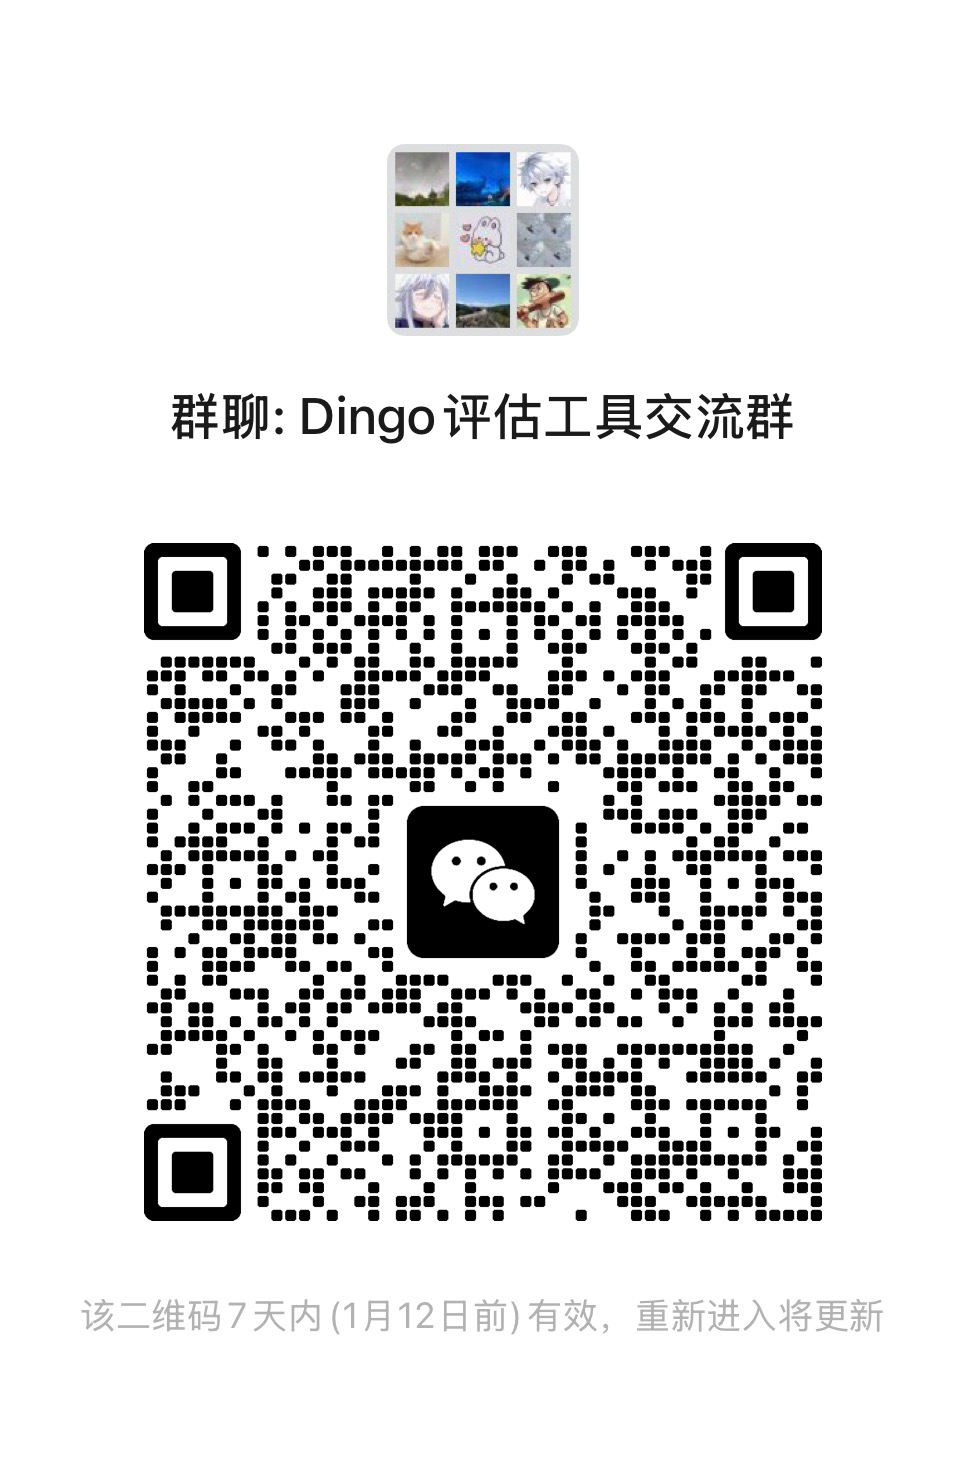
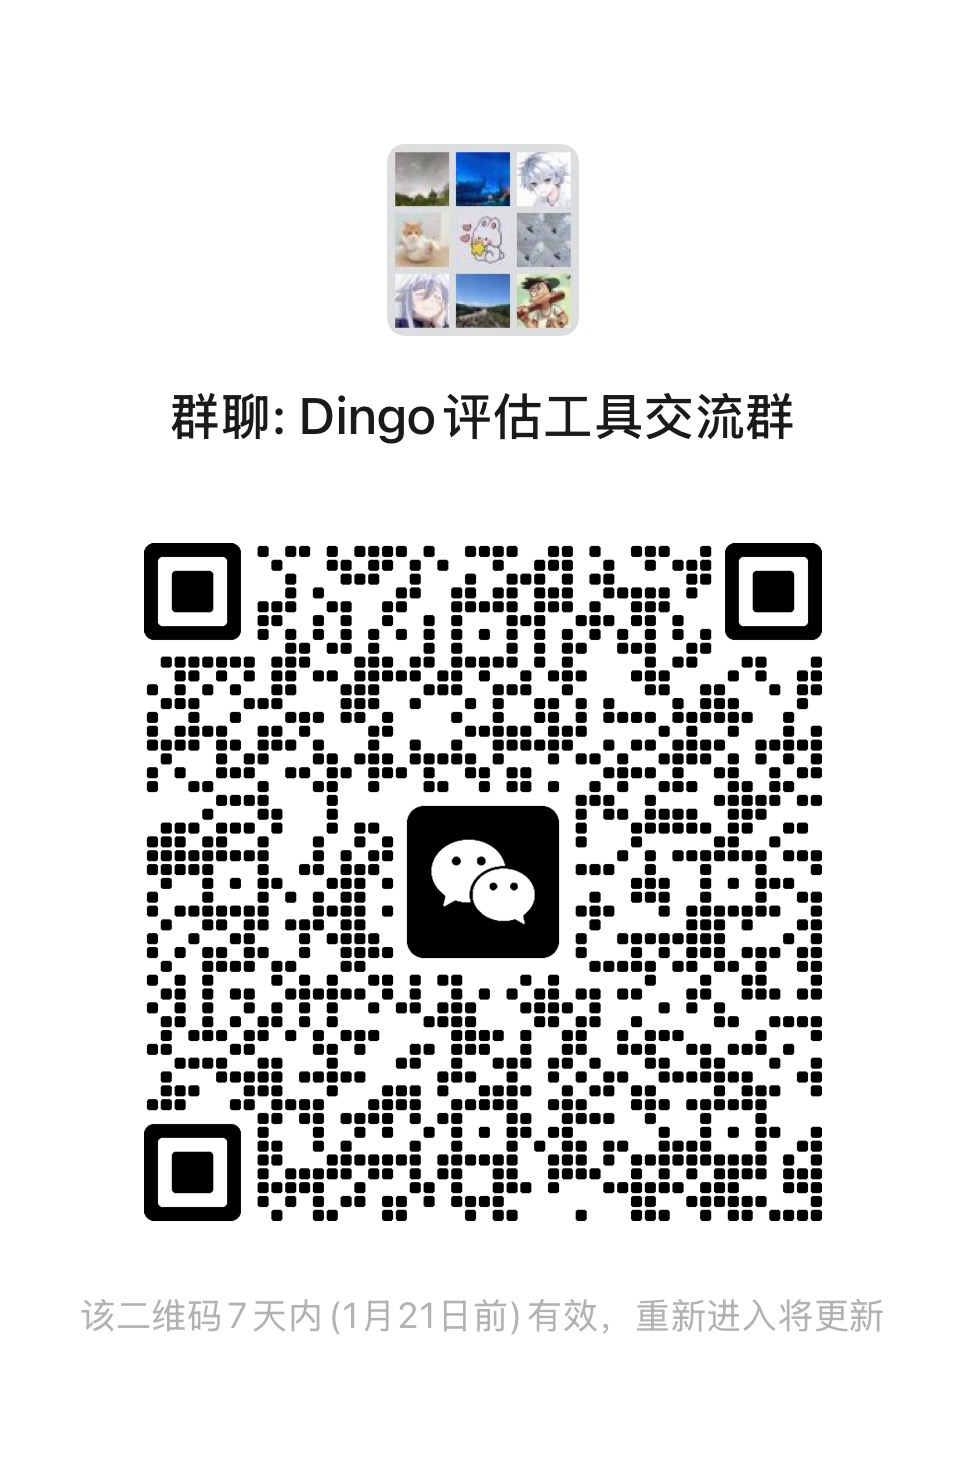
docs: update wechat (#335)
* docs: update wechat

* 📚 Auto-update metrics documentation

---------

diff --git a/docs/metrics.md b/docs/metrics.md
@@ -118,6 +118,12 @@ This document provides comprehensive information about all quality metrics used 
 | `RESUME_QUALITY_BAD_PROFESSIONALISM` | RuleResumeEmoji, RuleResumeInformal | Detects emoji usage in resume which reduces professionalism; Detects informal or colloquial expressions in resume | Internal Implementation | N/A | N/A |
 | `RESUME_QUALITY_BAD_STRUCTURE` | RuleResumeNameMissing, RuleResumeSectionMissing | Checks if resume contains a name in the first 200 characters; Checks if resume contains required sections like educat... | Internal Implementation | N/A | N/A |
 
+### SFT Data Assessment Metrics - Agent-Enhanced
+
+| Type | Metric | Description | Paper Source | Evaluation Results | Examples |
+|------|--------|-------------|--------------|-------------------|----------|
+| `AgentHallucination` | AgentHallucination | Agent-based hallucination detection with automatic web search for missing context | Internal Implementation | N/A | N/A |
+
 ### Text Generation
 
 | Type | Metric | Description | Paper Source | Evaluation Results | Examples |
